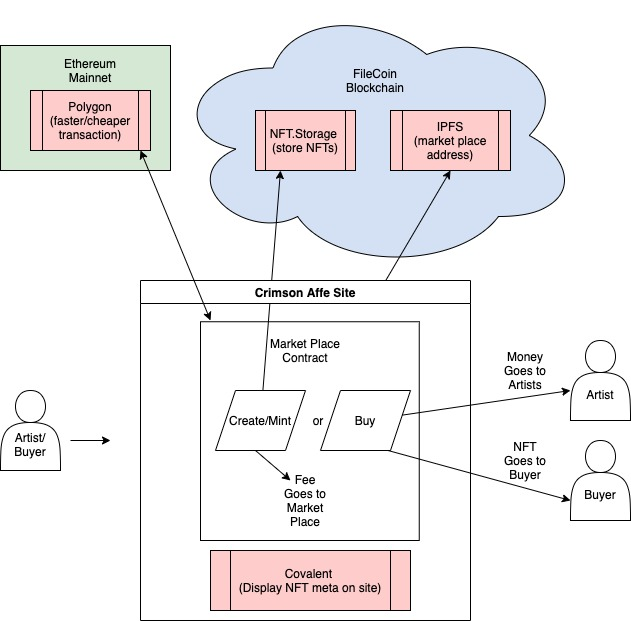
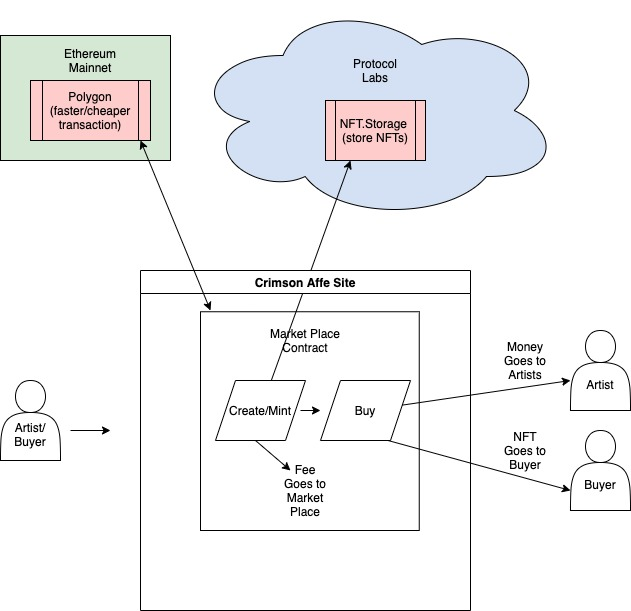
update README

diff --git a/src/pages/Home/index.jsx b/src/pages/Home/index.jsx
@@ -8,14 +8,6 @@ import AffeMarket from "../../artifacts/contracts/AffeMarket.sol/AffeMarket.json
 import MintArt from "../../artifacts/contracts/MintArt.sol/MintArt.json";
 
 export default function Home() {
-  async function connecting() {
-    const web3Modal = new Web3Modal();
-    const connection = await web3Modal.connect();
-    const provider = new ethers.providers.Web3Provider(connection);
-    const signer = provider.getSigner();
-    const affeContract = new ethers.Contract(affeMarketAddress, AffeMarket.abi, signer);
-    const mintArtContract = new ethers.Contract(mintArtAddress, MintArt.abi, provider);
-  }
 
   return (
     <div style={flex}>
@@ -29,7 +21,6 @@ export default function Home() {
           their arts.
         </h3>
       </div>
-      <button onClick={connecting}>Connect</button>
     </div>
   );
 }

diff --git a/README.md b/README.md
@@ -36,12 +36,44 @@ A NFT market place for organizations that hosts art show events. This project is
 
 * [nft.storage](https://nft.storage/)
 
-* [Covalent](https://www.covalenthq.com/)
-
 * [Polygon](https://polygon.technology/)
 
 ## Architecture
 
-![Architecture](/assets/CrimsonAffe.jpg)
+![Architecture](src/assets/CrimsonAffe.jpg)
 
 ## Setup
+
+Clone repo
+
+``` bash
+git clone git@github.com:Shih-Yu/Crimson-Affe.git
+```
+
+Change into directory
+
+``` bash
+cd Crimson-Affe
+```
+
+* [ ]Install project dependecies
+
+``` bash
+npm i
+```
+
+Create .env for connecting to testnet/mainnet
+
+Deploy contract to testnet/mainnet with hardhat
+
+``` bash
+npx hardhat run scripts/deploy.js --network <testnet/mainnet>
+```
+
+Get contract address for interaction from the front end
+
+In a separate terminal, start the server for React
+
+``` bash
+npm start
+```
